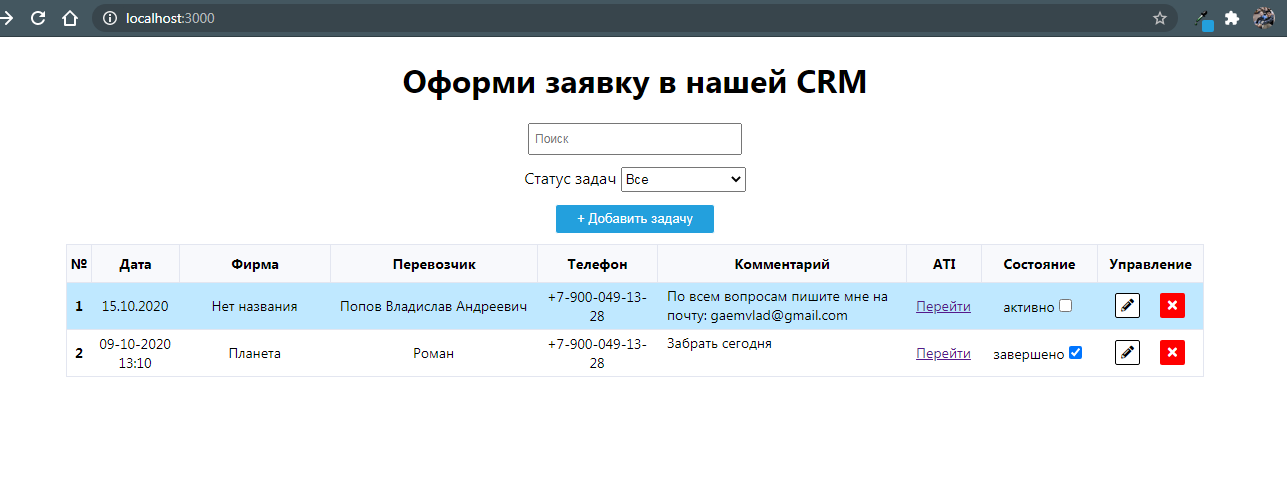
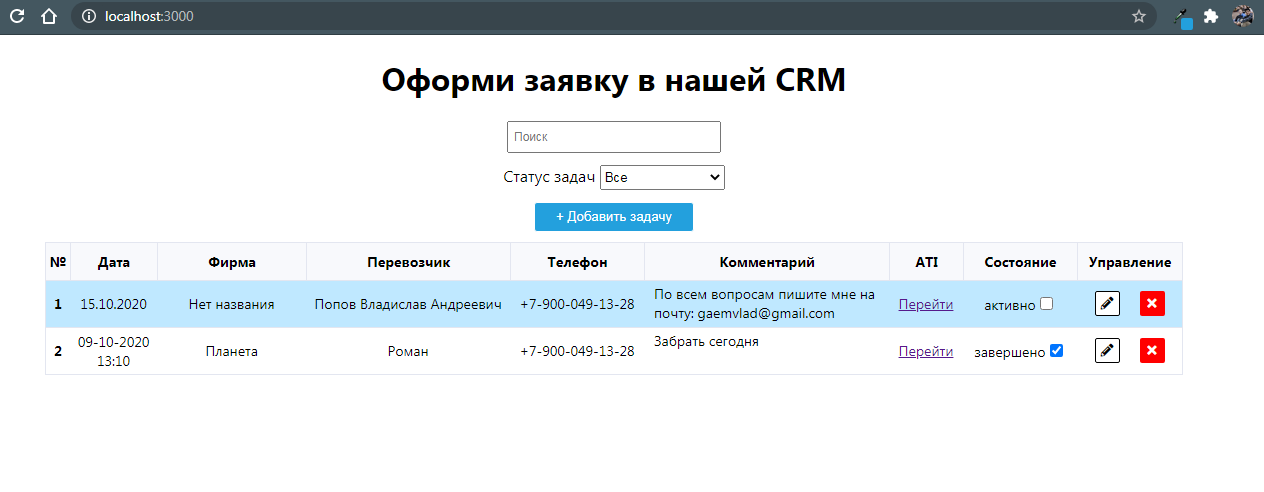
Styles add

Changed region(s): [[0.0309, 0.25, 0.9565, 0.7812], [0.0, 0.0, 1.0, 0.0938], [0.2777, 0.125, 0.6788, 0.2188]]

diff --git a/src/components/todo/TodoList/TodoList.modules.css b/src/components/todo/TodoList/TodoList.modules.css
@@ -41,7 +41,7 @@ table>thead>tr>th:nth-child(4){
 }
 /* Телефон */
 table>thead>tr>th:nth-child(5){
-    width: 115px;
+    width: 130px;
 }
 /* Комментарии */
 table>thead>tr>th:nth-child(6){
